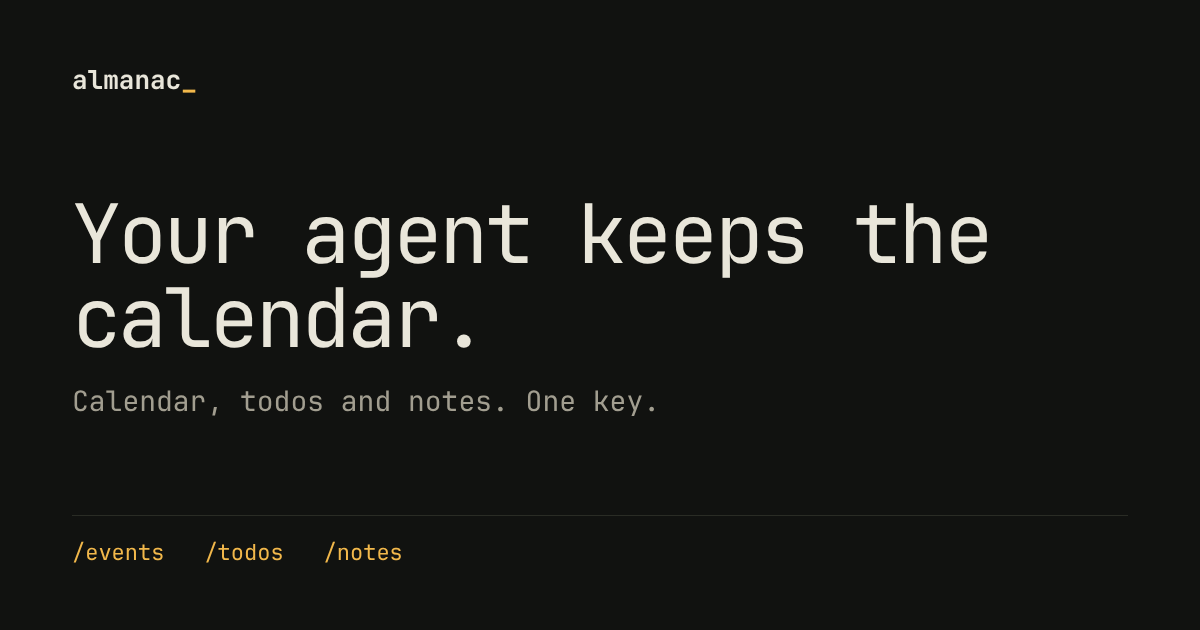
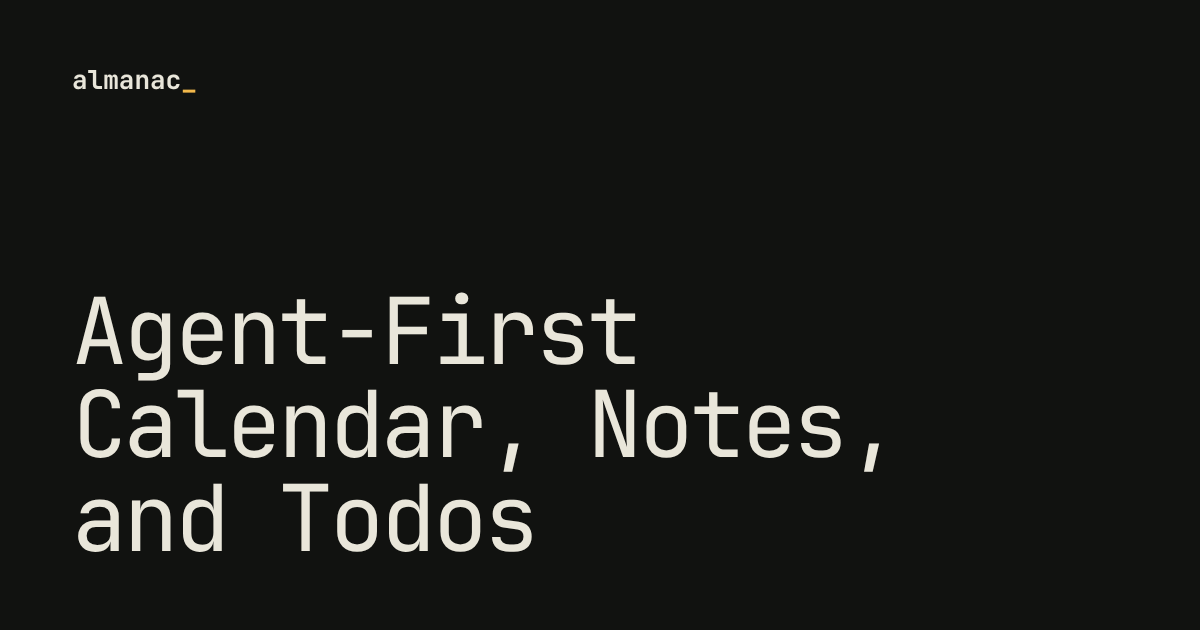
0.16.0 Say less on the landing page: the headline is now Agent-First Calendar, Notes, and Todos, the prompt panel is titled Ask your agent and holds one short prompt that is exactly the text the Copy button copies, so the short-version caveat and the full-prompt toggle are gone; the eyebrow, subhead

diff --git a/public/og.html b/public/og.html
@@ -16,17 +16,11 @@
     }
     .word { font-size: 26px; font-weight: 600; }
     .word i { font-style: normal; color: #f2b84b; }
-    h1 { margin: 0 0 24px; font-size: 82px; line-height: 1.02; letter-spacing: -0.04em; font-weight: 500; max-width: 980px; }
-    p { margin: 0; font-size: 28px; color: #a29e90; }
-    .feeds { display: flex; gap: 40px; padding-top: 24px; border-top: 1px solid #2a2c25; font-size: 22px; color: #f2b84b; }
+    h1 { margin: 0; font-size: 92px; line-height: 1.02; letter-spacing: -0.04em; font-weight: 500; max-width: 1000px; }
   </style>
 </head>
 <body>
   <div class="word">almanac<i>_</i></div>
-  <div>
-    <h1>Your agent keeps the calendar.</h1>
-    <p>Calendar, todos and notes. One key.</p>
-  </div>
-  <div class="feeds"><span>/events</span><span>/todos</span><span>/notes</span></div>
+  <h1>Agent-First Calendar, Notes, and Todos</h1>
 </body>
 </html>

diff --git a/src/landing.rs b/src/landing.rs
@@ -101,7 +101,7 @@ pub fn llms_txt(base: &str) -> String {
 }
 
 const DESCRIPTION: &str =
-    "An agent calendar, with todos and notes. Agents write them. You subscribe in the app you already have.";
+    "An agent-first calendar, notes and todos. Your agent writes them. You subscribe in the app you already use.";
 
 const PAGE: &str = r##"<!doctype html>
 <html lang="en">
@@ -116,7 +116,7 @@ const PAGE: &str = r##"<!doctype html>
   <meta property="og:image" content="@IMAGE@">
   <meta property="og:image:width" content="1200">
   <meta property="og:image:height" content="630">
-  <meta property="og:image:alt" content="Almanac. Your agent keeps the calendar.">
+  <meta property="og:image:alt" content="Almanac. Agent-first calendar, notes and todos.">
 @OG_URL@  <meta name="twitter:card" content="summary_large_image">
   <meta name="twitter:title" content="@TITLE@">
   <meta name="twitter:description" content="@DESC@">
@@ -130,7 +130,7 @@ const PAGE: &str = r##"<!doctype html>
     code, pre { font-family: inherit; }
     pre { margin: 0; white-space: pre-wrap; overflow-wrap: anywhere; }
     button { font: inherit; font-size: 13px; font-weight: 600; min-height: 44px; padding: 0 16px; background: #f2b84b; color: #111210; border: 0; cursor: pointer; }
-    .wrap { max-width: 1152px; margin: 0 auto; padding: 0 clamp(20px, 5vw, 64px); }
+    .wrap { max-width: 1216px; margin: 0 auto; padding: 0 clamp(20px, 5vw, 64px); }
     .narrow { max-width: 46rem; padding-top: 3rem; padding-bottom: 3rem; }
     .narrow h1 { font-size: 1.6rem; font-weight: 500; letter-spacing: -0.02em; margin: 0 0 1rem; }
     .narrow pre { background: #171814; border: 1px solid #34362d; padding: 0.9rem 1rem; }
@@ -147,7 +147,7 @@ const PAGE: &str = r##"<!doctype html>
 /// Cache key for the share image. Cloudflare holds `/og.png` for hours and
 /// link-preview crawlers cache by URL, so a new image at the same URL keeps
 /// showing the old one. Bump this whenever `public/og.png` changes.
-const OG_VERSION: &str = "2";
+const OG_VERSION: &str = "3";
 
 fn page(title: &str, body: &str, origin: &str) -> String {
     let image = if origin.is_empty() {
@@ -174,38 +174,25 @@ const HOME_CSS: &str = r##"
   .word { font-size: 18px; font-weight: 600; letter-spacing: 0.02em; }
   .word i { font-style: normal; color: #f2b84b; }
   .bar a { font-size: 14px; text-decoration: none; border-bottom: 1px solid #55574c; }
-  .hero { padding-top: clamp(40px, 7vw, 88px); display: grid; grid-template-columns: repeat(2, minmax(0, 1fr)); gap: clamp(32px, 5vw, 64px); align-items: start; }
-  .eyebrow { margin: 0 0 28px; font-size: 14px; color: #f2b84b; letter-spacing: 0.08em; text-transform: uppercase; }
-  h1 { margin: 0 0 28px; font-size: clamp(38px, 5vw, 60px); line-height: 1.04; letter-spacing: -0.035em; font-weight: 500; }
-  .sub { margin: 0; max-width: 460px; font-size: 19px; line-height: 1.55; color: #a29e90; }
+  .hero { padding-top: clamp(48px, 9vw, 112px); display: grid; grid-template-columns: repeat(2, minmax(0, 1fr)); gap: clamp(32px, 5vw, 64px); align-items: center; }
+  h1 { margin: 0; font-size: clamp(34px, 4.2vw, 54px); line-height: 1.04; letter-spacing: -0.035em; font-weight: 500; }
   .box { border: 1px solid #34362d; background: #171814; }
   .box-h { display: flex; align-items: center; justify-content: space-between; gap: 12px; padding: 12px 16px; border-bottom: 1px solid #34362d; font-size: 13px; color: #8f8b7e; }
-  .short { padding: 24px 24px 28px; font-size: 15px; line-height: 1.7; color: #d4d0c2; }
-  .box-f { padding: 12px 24px; border-top: 1px solid #34362d; font-size: 13px; color: #8f8b7e; }
-  .box-f summary { cursor: pointer; margin-top: 6px; color: #e9e6da; }
-  .box-f details pre { margin-top: 12px; padding-top: 12px; border-top: 1px solid #34362d; font-size: 13px; line-height: 1.6; color: #b8b4a6; max-height: 320px; overflow: auto; }
-  .products { margin-top: clamp(56px, 8vw, 96px); }
-  .products-h { display: flex; align-items: baseline; justify-content: space-between; flex-wrap: wrap; gap: 8px 24px; padding-bottom: 20px; margin-bottom: 32px; border-bottom: 1px solid #2a2c25; }
-  .products-h h2 { margin: 0; font-size: 28px; font-weight: 500; letter-spacing: -0.02em; }
-  .products-h span { font-size: 14px; color: #8f8b7e; }
+  .prompt { padding: 24px 24px 28px; font-size: 15px; line-height: 1.7; color: #d4d0c2; }
+  .products { margin-top: clamp(64px, 9vw, 120px); padding-bottom: clamp(48px, 7vw, 96px); }
   .cols { display: grid; grid-template-columns: repeat(auto-fit, minmax(min(100%, 300px), 1fr)); gap: 48px; align-items: start; }
   .cols figure { margin: 0; max-width: 420px; }
-  .cols h3 { margin: 20px 0 4px; font-size: 20px; font-weight: 500; }
-  .feed { margin: 0; font-size: 13px; color: #f2b84b; }
-  .cols figcaption p { margin: 8px 0 0; font-size: 15px; line-height: 1.5; color: #b8b4a6; }
-  .foot { margin-top: clamp(56px, 8vw, 96px); padding-bottom: 40px; display: flex; justify-content: space-between; flex-wrap: wrap; gap: 8px 24px; font-size: 13px; color: #8f8b7e; }
+  .cols h3 { margin: 20px 0 0; font-size: 20px; font-weight: 500; }
   .app { height: 340px; overflow: hidden; background: #171814; color: #e9e6da; border: 1px solid #34362d; font-size: 12px; }
   .app-h { height: 44px; padding: 0 14px; display: flex; align-items: center; justify-content: space-between; border-bottom: 1px solid #34362d; }
   .app-h b { font-size: 15px; font-weight: 600; }
   .app-h.lg { height: 60px; padding: 0 16px; }
   .app-h.lg b { font-size: 20px; }
-  .app-h span { color: #8f8b7e; }
   .cal-days, .cal-allday, .cal-body { display: grid; grid-template-columns: 36px repeat(5, minmax(0, 1fr)); }
   .cal-days { height: 30px; align-items: center; border-bottom: 1px solid #34362d; color: #8f8b7e; font-size: 11px; }
   .cal-days span { text-align: center; }
   .cal-days b { color: #e9e6da; font-weight: 600; }
   .cal-allday { height: 24px; align-items: center; border-bottom: 1px solid #34362d; }
-  .cal-allday .lbl { padding-left: 3px; font-size: 8.5px; white-space: nowrap; color: #8f8b7e; }
   .trip { grid-column: 6; height: 18px; margin: 0 2px; padding: 0 6px; background: #f2b84b; color: #111210; font-size: 11px; line-height: 18px; font-weight: 600; }
   .cal-body { height: 220px; }
   .hrs { position: relative; }
@@ -226,16 +213,16 @@ const HOME_CSS: &str = r##"
   .notes { list-style: none; margin: 0; padding: 0; }
   .notes li { height: 91px; padding: 10px 16px 0; border-top: 1px solid #34362d; }
   .notes b { font-size: 16px; font-weight: 600; }
-  .notes .pin { margin-left: 8px; padding: 1px 6px; background: #f2b84b; color: #111210; font-size: 10px; font-weight: 600; }
+  .notes .pin { display: inline-block; width: 8px; height: 8px; margin-left: 8px; background: #f2b84b; }
   .notes p { margin: 3px 0 0; height: 32px; overflow: hidden; font-size: 12px; line-height: 16px; color: #8f8b7e; }
   .notes .tag { display: inline-block; margin-top: 5px; padding: 1px 7px; background: #22241d; color: #8f8b7e; font-size: 11px; }
   @media (max-width: 860px) { .hero { grid-template-columns: minmax(0, 1fr); } }
 "##;
 
 const CALENDAR_MOCK: &str = r##"<div class="app" role="img" aria-label="A calendar app showing one week: a weekly standup on Tuesday, a dentist visit on Wednesday, a design review on Thursday and an all-day trip on Friday.">
-<div class="app-h"><b>Sep 21 &ndash; 25</b><span>Week</span></div>
+<div class="app-h"><b>Sep 21 &ndash; 25</b></div>
 <div class="cal-days"><span></span><span>Mon <b>21</b></span><span>Tue <b>22</b></span><span>Wed <b>23</b></span><span>Thu <b>24</b></span><span>Fri <b>25</b></span></div>
-<div class="cal-allday"><span class="lbl">all day</span><span class="trip">Trip</span></div>
+<div class="cal-allday"><span class="trip">Trip</span></div>
 <div class="cal-body">
 <div class="hrs"><span style="top:2px">9a</span><span style="top:46px">10a</span><span style="top:90px">11a</span><span style="top:134px">12p</span><span style="top:178px">1p</span></div>
 <div class="col"><div class="ev" style="top:177px;height:42px"><b>Roadmap sync</b></div></div>
@@ -247,7 +234,7 @@ const CALENDAR_MOCK: &str = r##"<div class="app" role="img" aria-label="A calend
 </div>"##;
 
 const TODOS_MOCK: &str = r##"<div class="app" role="img" aria-label="A todo app with four open items and one finished: buy milk, call Bob, renew passport, book flights, and pack bags done.">
-<div class="app-h lg"><b>Todos</b><span>4 open</span></div>
+<div class="app-h lg"><b>Todos</b></div>
 <ul class="todos">
 <li><span class="cb"></span><div><b>Buy milk</b><small>due Oct 1 &middot; #home</small></div><em>P1</em></li>
 <li><span class="cb"></span><div><b>Call Bob</b><small>due Sep 30, 5 PM</small></div></li>
@@ -260,7 +247,7 @@ const TODOS_MOCK: &str = r##"<div class="app" role="img" aria-label="A todo app 
 const NOTES_MOCK: &str = r##"<div class="app" role="img" aria-label="A notes app with a search box and three notes: a pinned Ideas note, a Trip plan and Groceries.">
 <div class="search">Search notes</div>
 <ul class="notes">
-<li><b>Ideas</b><span class="pin">PINNED</span><p>Pack light. Call Bob about the roadmap. Sketch the landing page.</p><span class="tag">#work</span></li>
+<li><b>Ideas</b><span class="pin" aria-hidden="true"></span><p>Pack light. Call Bob about the roadmap. Sketch the landing page.</p><span class="tag">#work</span></li>
 <li><b>Trip plan</b><p>Flights booked. Passport renewal due Oct 14. Hotel near the station.</p><span class="tag">#travel</span></li>
 <li><b>Groceries</b><p>Milk, eggs, coffee. Ask about the good bread.</p><span class="tag">#home</span></li>
 </ul>
@@ -270,29 +257,19 @@ const HOME_BODY: &str = r##"<style>@HOME_CSS@</style>
 <div class="wrap">
 <header class="bar"><span class="word">almanac<i>_</i></span><a href="/llms.txt">/llms.txt</a></header>
 <section class="hero">
-<div>
-<p class="eyebrow">calendar / todos / notes</p>
-<h1>Your agent keeps the calendar.</h1>
-<p class="sub">One key writes events, todos and notes. Each one gets its own feed. You subscribe in the apps you already use.</p>
-</div>
+<h1>Agent-First Calendar, Notes, and Todos</h1>
 <div class="box">
-<div class="box-h"><span>send your agent this</span><button type="button" id="copy">Copy prompt</button></div>
-<pre class="short">@SHORT@</pre>
-<div class="box-f">
-<span>Above is the short version. Copy prompt sends all 9 steps.</span>
-<details><summary>Read the full prompt</summary><pre id="prompt">@PROMPT@</pre></details>
-</div>
+<div class="box-h"><span>Ask your agent</span><button type="button" id="copy">Copy</button></div>
+<pre class="prompt" id="prompt">@PROMPT@</pre>
 </div>
 </section>
 <section class="products">
-<div class="products-h"><h2>Three products. One key.</h2><span>Your agent writes them. They show up in your apps.</span></div>
 <div class="cols">
-<figure>@CALENDAR@<figcaption><h3>Calendar</h3><p class="feed">/events &middot; .ics feed</p><p>Apple Calendar, Google Calendar and Outlook subscribe by URL.</p></figcaption></figure>
-<figure>@TODOS@<figcaption><h3>Todos</h3><p class="feed">/todos &middot; .ics tasks feed</p><p>Apps that show tasks from a subscribed calendar, like Thunderbird.</p></figcaption></figure>
-<figure>@NOTES@<figcaption><h3>Notes</h3><p class="feed">/notes &middot; Atom feed</p><p>Any feed reader. Markdown bodies, searchable through the API.</p></figcaption></figure>
+<figure>@CALENDAR@<figcaption><h3>Calendar</h3></figcaption></figure>
+<figure>@NOTES@<figcaption><h3>Notes</h3></figcaption></figure>
+<figure>@TODOS@<figcaption><h3>Todos</h3></figcaption></figure>
 </div>
 </section>
-<footer class="foot"><span>Your key is shown once. Only a hash is stored.</span><span>Export everything, any time.</span></footer>
 </div>
 <script>
   document.getElementById('copy').onclick = function () {
@@ -303,51 +280,20 @@ const HOME_BODY: &str = r##"<style>@HOME_CSS@</style>
 pub fn html_home(base: &str) -> String {
     let origin = base.trim_end_matches('/');
     let prompt = [
-        "Almanac is a hosted calendar with todos and notes. You create one over HTTP. One key writes all three, and each has its own feed. I subscribe to the feeds in my own apps. You write events, todos and notes later when I ask.",
-        "",
-        &format!("1. GET {origin}/llms.txt and follow it."),
-        "2. Create a calendar:",
-        &format!("   POST {origin}/calendars"),
-        "   Content-Type: application/json",
-        "   Body may be {} or { \"name\": \"optional title\" }",
-        "3. The JSON response has:",
-        "   - id",
-        "   - subscribe  (events feed, https://…/feed/<token>.ics)",
-        "   - write",
-        "   - key",
-        "   - todos.subscribe and todos.write  (todos feed, .ics with VTODOs)",
-        "   - notes.subscribe and notes.write  (notes feed, Atom)",
-        "4. Store id and key. The key is shown once and cannot be recovered. You need both to add or change anything.",
-        "5. Give me the id, key and the three subscribe URLs in plain text.",
-        "6. Help me subscribe. The feed is HTTPS ICS. Do not use webcal://.",
-        "   Walk me through my calendar of choice:",
-        "   - Apple Calendar: File → New Calendar Subscription → paste subscribe",
-        "   - Google Calendar: Settings → Add calendar → From URL → paste subscribe",
-        "   - Outlook: Add calendar → Subscribe from web → paste subscribe",
-        "   - Anything else that accepts an https .ics URL: paste subscribe there",
-        "7. Offer the other two feeds. The todos feed is an .ics of tasks: apps that show tasks from a subscribed calendar, like Thunderbird, display it. The notes feed is Atom: any feed reader takes it. Only set up what I want.",
-        "8. Do not add events unless I ask. Same for todos and notes. Setup is create + subscribe only.",
-        &format!("9. I can read everything back out at any time: GET {origin}/v1/c/{{id}}/export with the key."),
-        "",
-        &format!("Base: {origin}"),
-    ]
-    .join("\n");
-    let short = [
         "Set up Almanac for me.".to_string(),
         format!("1. Read {origin}/llms.txt and follow it."),
         "2. Create my calendar over HTTP.".to_string(),
         "3. Store the id and key. The key is shown once.".to_string(),
-        "4. Give me the three subscribe URLs and walk me through subscribing.".to_string(),
+        "4. Give me the three subscribe URLs and help me subscribe.".to_string(),
         "Add nothing until I ask.".to_string(),
     ]
     .join("\n");
     let body = HOME_BODY
         .replace("@HOME_CSS@", HOME_CSS)
-        .replace("@SHORT@", &esc(&short))
         .replace("@PROMPT@", &esc(&prompt))
         .replace("@CALENDAR@", CALENDAR_MOCK)
-        .replace("@TODOS@", TODOS_MOCK)
-        .replace("@NOTES@", NOTES_MOCK);
+        .replace("@NOTES@", NOTES_MOCK)
+        .replace("@TODOS@", TODOS_MOCK);
     page("Almanac", &body, origin)
 }
 

diff --git a/tests/server.rs b/tests/server.rs
@@ -52,31 +52,32 @@ fn returns_html_for_browsers() {
     );
     assert_eq!(status, 200);
     let html = String::from_utf8(body).unwrap();
-    assert!(html.contains("Your agent keeps the calendar."));
-    assert!(html.contains("send your agent this"));
-    assert!(html.contains("Copy prompt"));
+    assert!(html.contains("Agent-First Calendar, Notes, and Todos"));
+    assert!(html.contains("Ask your agent"));
+    assert!(html.contains("id=\"copy\""));
+    // The prompt on the page is the prompt that gets copied: one element.
+    assert!(html.contains("id=\"prompt\""));
+    assert!(html.contains("example.test/llms.txt"));
+    assert!(html.contains("Add nothing until I ask"));
     assert!(html.contains("/llms.txt"));
-    assert!(html.contains("/calendars"));
-    assert!(html.contains("Subscribe from web"));
-    assert!(html.contains("Do not add events unless I ask"));
-    // The page has to say it is more than a calendar.
-    assert!(html.contains("todos") && html.contains("notes"));
-    assert!(html.contains("todos.subscribe") && html.contains("notes.subscribe"));
-    assert!(html.contains("/export"));
-    // The three products are shown, not just described, and the bunny is gone.
-    for app in ["A calendar app", "A todo app", "A notes app"] {
-        assert!(html.contains(app), "no mockup for {app}");
-    }
-    assert!(html.contains("Three products. One key."));
-    assert!(!html.contains("mascot") && !html.contains("<img"));
-    // No external requests: fonts and images are all local.
-    assert!(!html.contains("fonts.googleapis"));
-    assert!(!html.contains("<link rel=\"stylesheet\""));
-    assert!(!html.contains("{origin}"), "an unformatted placeholder leaked into the page");
-    assert!(html.contains("example.test/v1/c/{id}/export"));
     assert!(html.contains("og.png?v="), "the share image URL must be versioned");
     assert!(html.contains("og:image"));
     assert!(html.contains("twitter:card"));
+    assert!(!html.contains("{origin}"), "an unformatted placeholder leaked into the page");
+    // The three products are shown, in the order they are named, and the bunny is gone.
+    let order: Vec<usize> = ["A calendar app", "A notes app", "A todo app"]
+        .iter()
+        .map(|app| html.find(app).unwrap_or_else(|| panic!("no mockup for {app}")))
+        .collect();
+    assert!(order.windows(2).all(|w| w[0] < w[1]), "mockups are out of order: {order:?}");
+    assert!(!html.contains("mascot") && !html.contains("<img"));
+    // Less text: no feed-format labels, no long explanations.
+    for gone in ["Three products", "Copy prompt", "short version", ".ics feed", "Only a hash"] {
+        assert!(!html.contains(gone), "the page still says {gone:?}");
+    }
+    // No external requests: fonts and images are all local.
+    assert!(!html.contains("fonts.googleapis"));
+    assert!(!html.contains("<link rel=\"stylesheet\""));
     assert!(!html.contains("Create Calendar"));
 }
 

diff --git a/CHANGELOG.md b/CHANGELOG.md
@@ -1,3 +1,11 @@
+0.16.0
+
+  Simplify landing copy
+  Ask your agent
+  Reorder products
+  Trim mockup labels
+  Update share image
+
 0.15.0
 
   Move skill into repo
